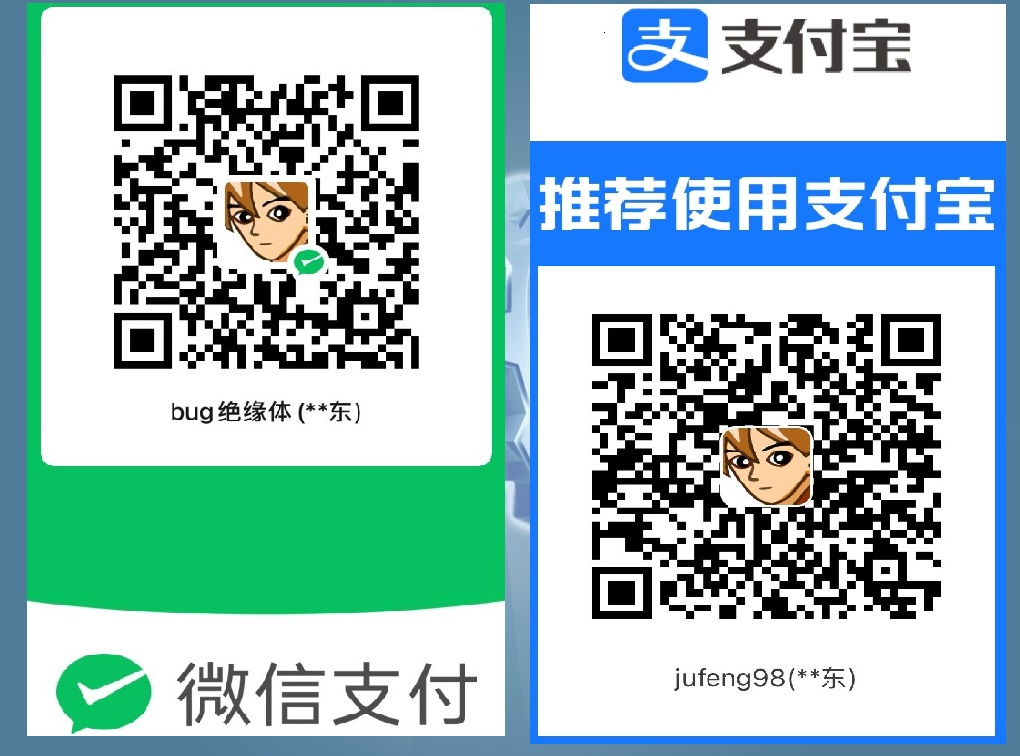
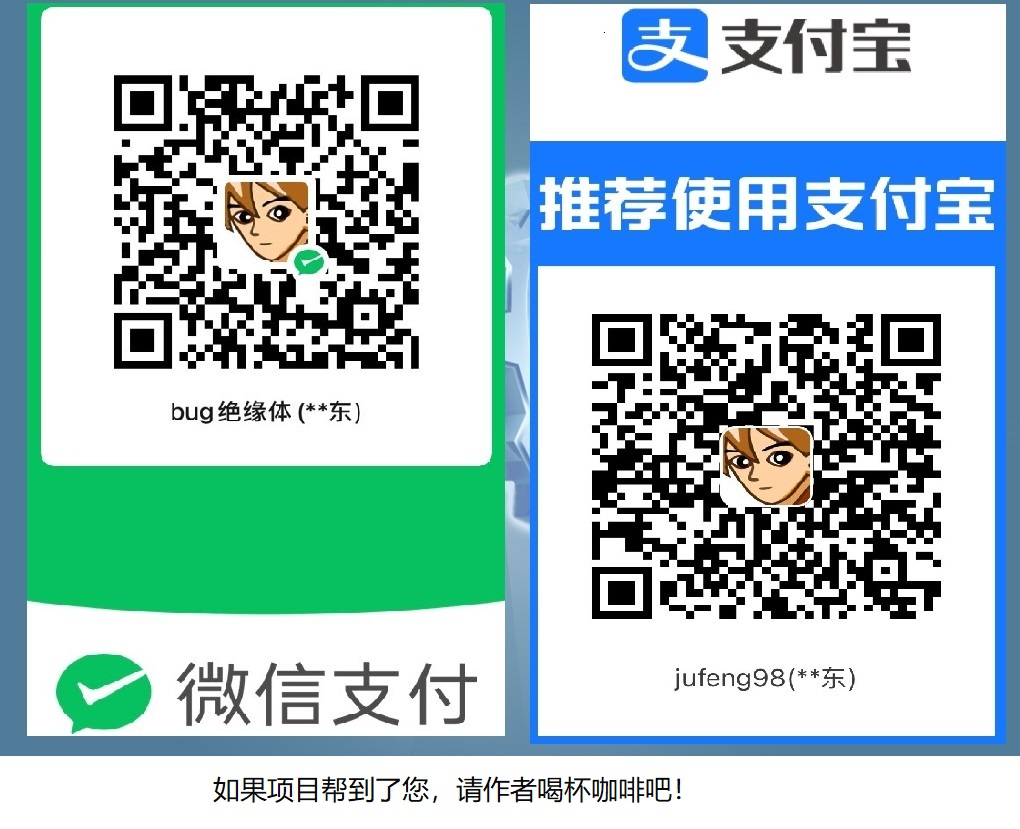
完善说明

diff --git a/README.md b/README.md
@@ -35,3 +35,14 @@
 ![preview-img.png](https://github.com/jufeng98/HttpClient/blob/master/images/preview-img.png)
 #### multipart请求
 ![multipart.png](https://github.com/jufeng98/HttpClient/blob/master/images/multipart.png)
+
+## 作者信息
+- 作者博客：[知乎](https://www.zhihu.com/people/liang-yu-dong-44)
+- 作者邮箱：375709770@qq.com
+- github 地址：https://github.com/jufeng98
+## 捐赠
+如果项目帮到了您，请作者喝杯咖啡吧！
+![donate](https://github.com/jufeng98/HttpClient/blob/master/images/donate.png)
+## 技术支持
+微信记得备注 ```HttpClient```，共同进步。
+![wechat](https://github.com/jufeng98/HttpClient/blob/master/images/wechat.png)
